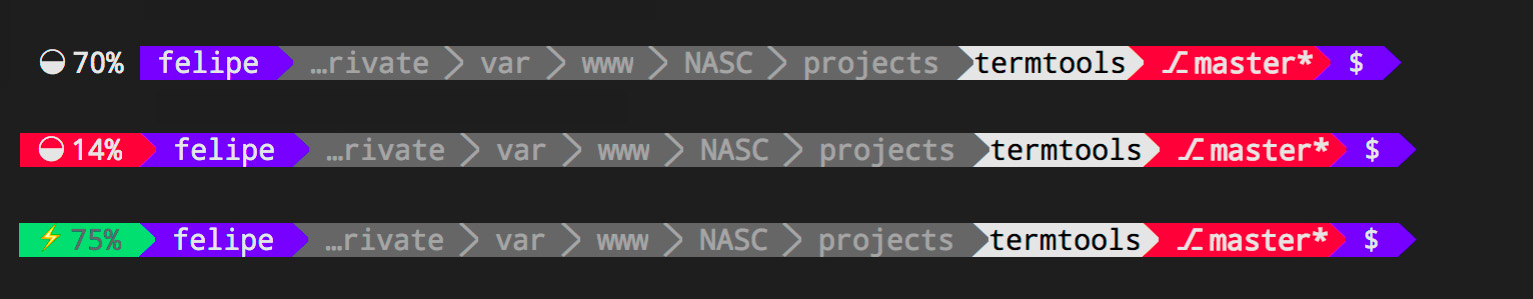
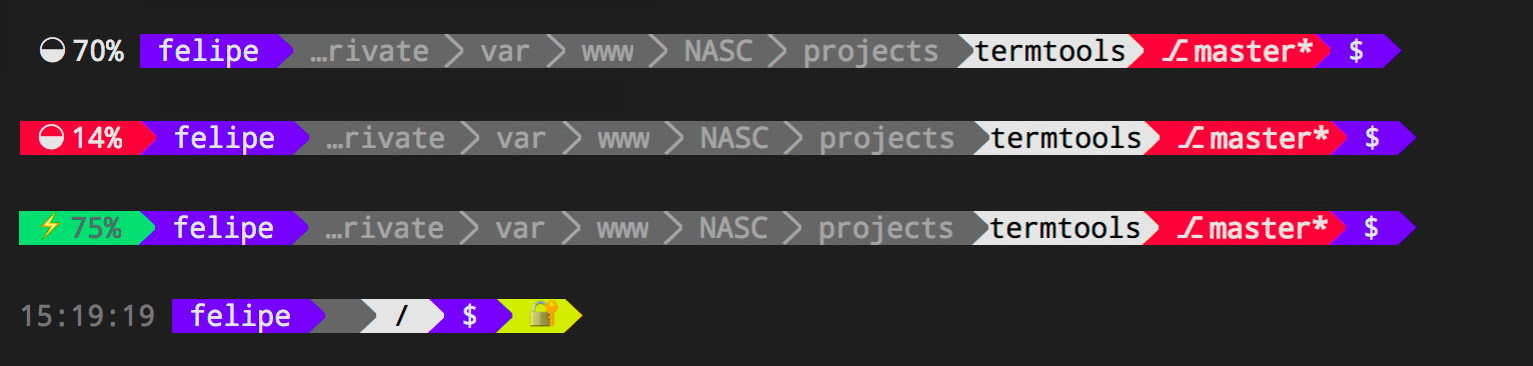
Setting repository to github and better images

diff --git a/README.md b/README.md
@@ -23,8 +23,7 @@ Easy to customize, built on top of the power of JavaScript and Bash, it ads a bu
 - [x] More tools, like time, battery and readOnly...
 - [x] Extendable...you can customize your theme with any extra string, allowing you to use JavaScript to decide what to show
 
-![Termtools with battery](media/termtools-theme-default-with-battery.jpg)
-![Termtools with time and read only](media/termtools-theme-default-time-read-only.png)
+![Termtools with battery, time and read only](media/termtools-theme-default-with-battery.jpg)
 
 ## Installing it
 
